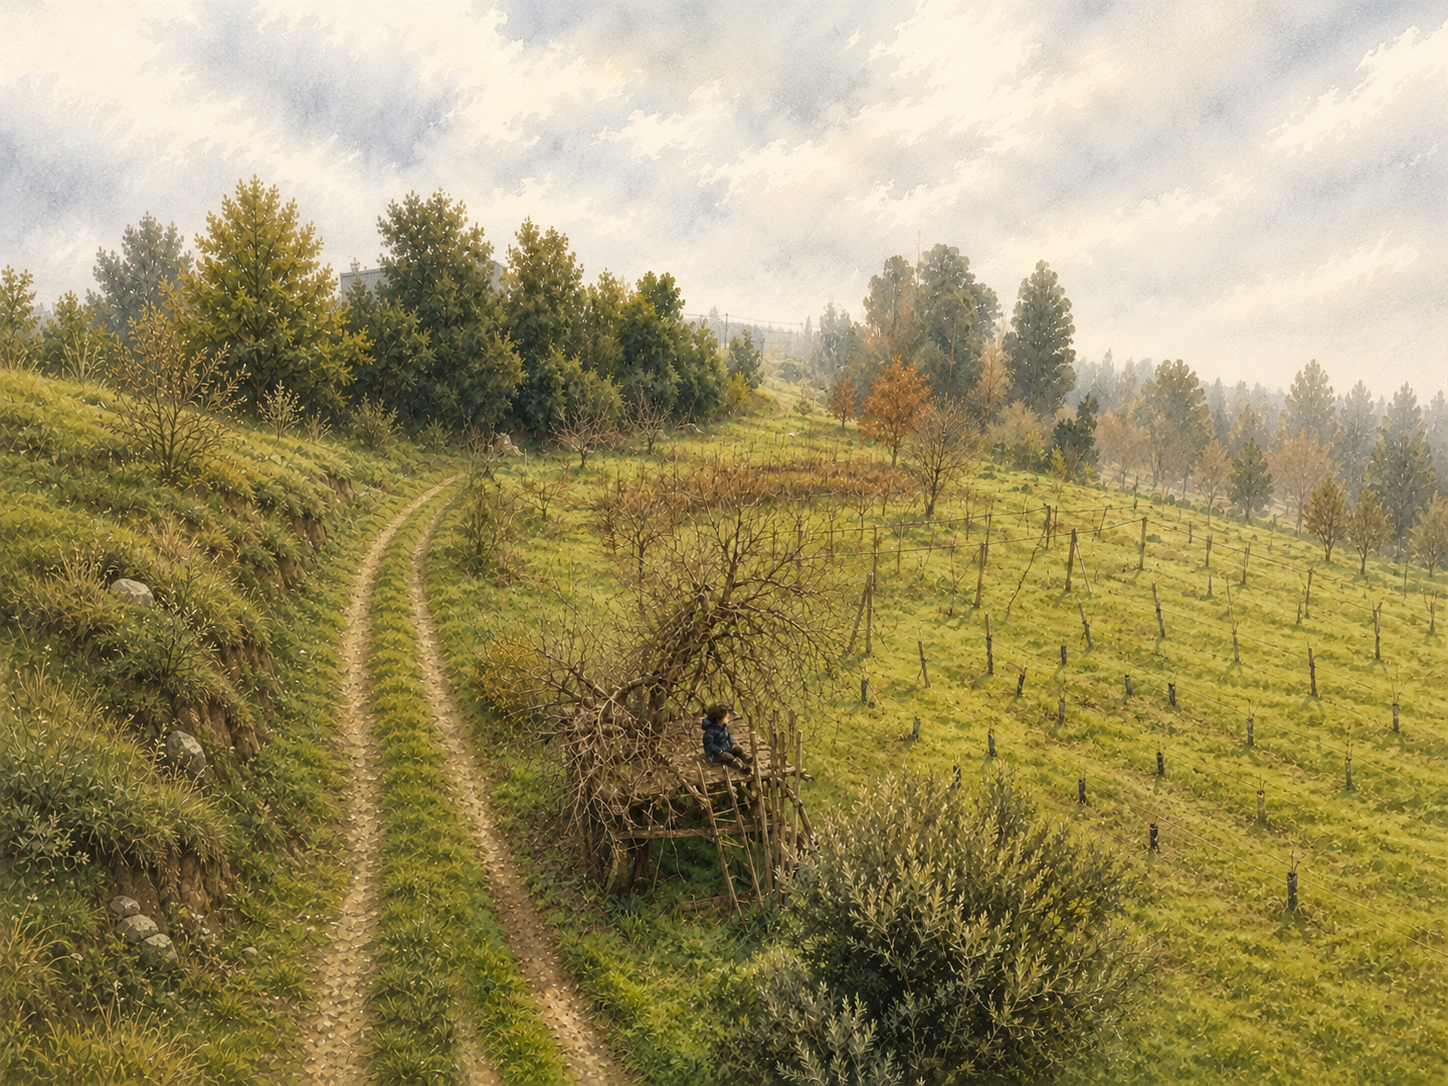
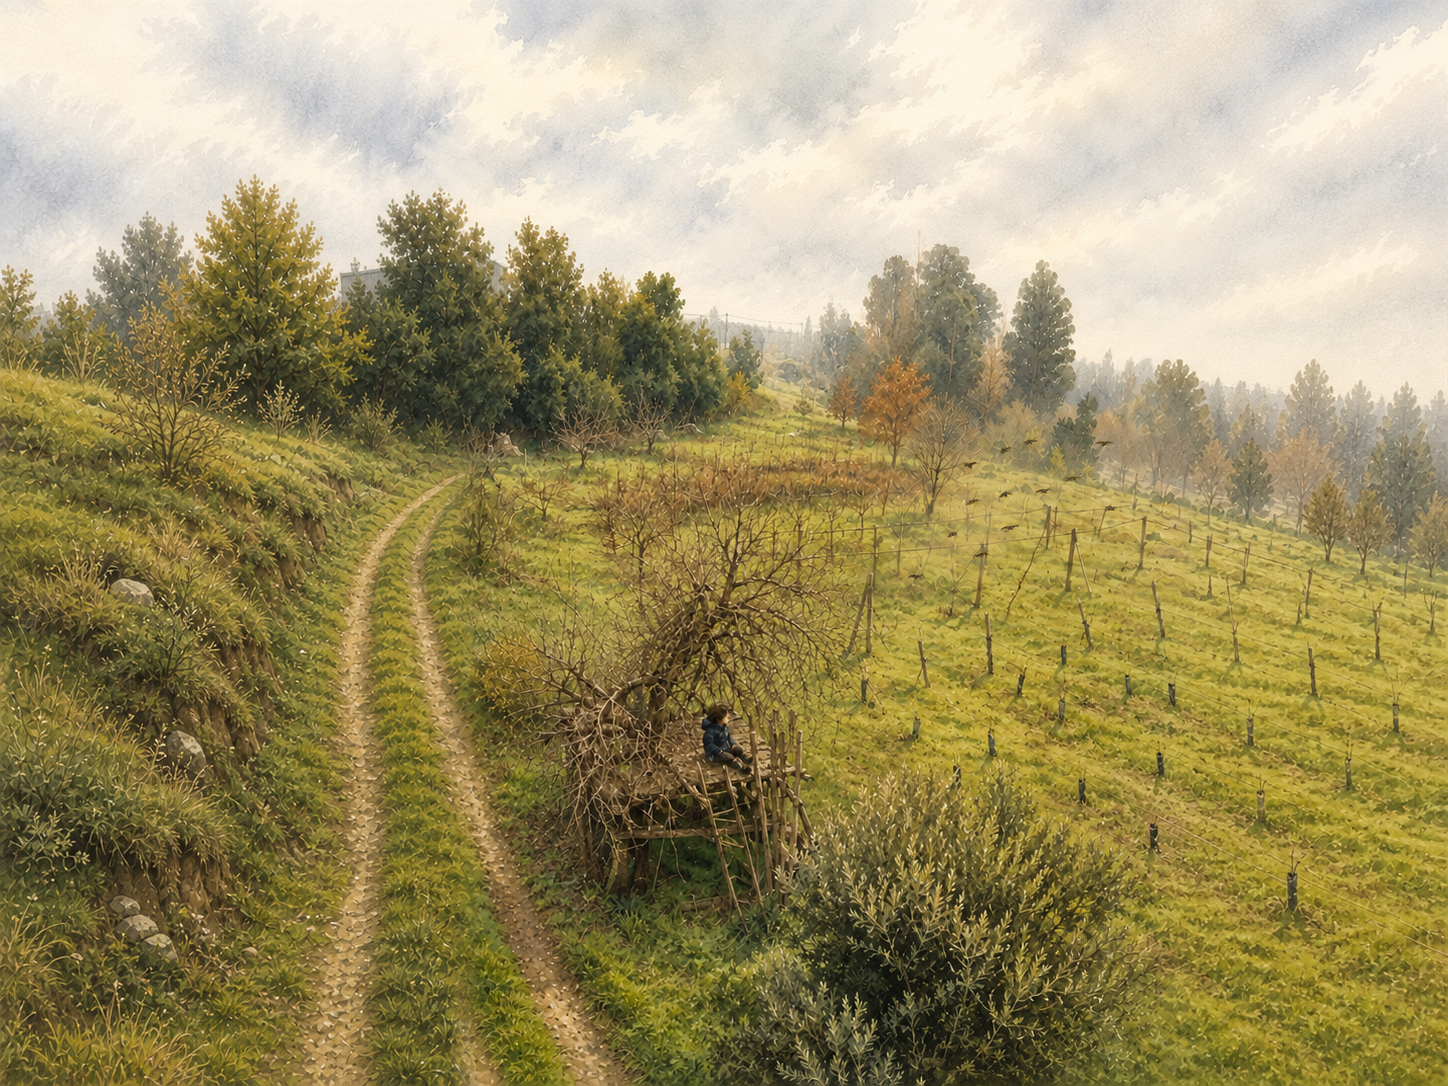
El Recodo: segunda tanda de animalitos, y dos correcciones
Nuevos:
  el tractor        -> tres queltehues, uno con las alas extendidas
  casa del arbol    -> una bandada de pajaritos bajando hacia el damasco
  el rio            -> un pececito saltando, junto al sapito que ya estaba
  leña y estufa     -> dos ratoncitos entre la leña, encendidos por el fuego
  casa de cojines   -> un ratoncito erguido al borde de la alfombra

Correcciones de la primera tanda:
  bienvenida        -> la lagartija pasa al lado de Mastana y mira el abrazo;
                       antes miraba hacia afuera de la escena
  caminando al campo-> las codornices al 70%: es una vista lejana y el ave
                       le llegaba a media altura a un adulto

Todas editadas de forma local: fuera de la zona del animal la lamina queda
identica a la version anterior. El texto no cambia, solo los alt.

Changed region(s): [[0.6215, 0.3646, 0.808, 0.547]]

diff --git a/kuchulu/index.html b/kuchulu/index.html
@@ -308,7 +308,7 @@
 <div class="page spread">
   <div class="spread-inner">
     <div class="spread-img-wrap">
-      <img class="spread-img" src="ilustraciones/15_bienvenida_terraza.png" alt="Masbaba y Mastana reciben a Kuchulu en la terraza, lo abrazan; una lagartija toma sol en el entablado" loading="eager">
+      <img class="spread-img" src="ilustraciones/15_bienvenida_terraza.png" alt="Masbaba y Mastana reciben a Kuchulu en la terraza, lo abrazan; al lado de Mastana una lagartija mira la bienvenida" loading="eager">
     </div>
     <div class="spread-text-box">
       <div class="spread-text">
@@ -363,7 +363,7 @@
 <div class="page spread">
   <div class="spread-inner">
     <div class="spread-img-wrap">
-      <img class="spread-img" src="ilustraciones/01_porton.png" alt="Masbaba y Kuchulu salen en el tractor; Masbaba senala a lo lejos" loading="eager">
+      <img class="spread-img" src="ilustraciones/01_porton.png" alt="Masbaba y Kuchulu salen en el tractor; Masbaba senala a lo lejos y tres queltehues se levantan del pasto" loading="eager">
     </div>
     <div class="spread-text-box">
       <div class="spread-text">
@@ -463,7 +463,7 @@
 <div class="page spread">
   <div class="spread-inner">
     <div class="spread-img-wrap">
-      <img class="spread-img" src="ilustraciones/05_casa_arbol.png" alt="Kuchulu solo en la casa del arbol, vista en picado de la parcela de El Recodo" loading="eager">
+      <img class="spread-img" src="ilustraciones/05_casa_arbol.png" alt="Kuchulu solo en la casa del arbol, vista en picado de la parcela de El Recodo; una bandada de pajaritos baja hacia el damasco" loading="eager">
     </div>
     <div class="spread-text-box">
       <div class="spread-text">
@@ -483,7 +483,7 @@
 <div class="page spread">
   <div class="spread-inner">
     <div class="spread-img-wrap">
-      <img class="spread-img" src="ilustraciones/06_rio.png" alt="Kuchulu de espaldas mirando el rio, el sauce dorado encendido por el sol y un sapito en las piedras" loading="eager">
+      <img class="spread-img" src="ilustraciones/06_rio.png" alt="Kuchulu de espaldas mirando el rio, el sauce dorado encendido por el sol, un sapito en las piedras y un pececito que salta" loading="eager">
     </div>
     <div class="spread-text-box">
       <div class="spread-text">
@@ -544,7 +544,7 @@
 <div class="page spread">
   <div class="spread-inner">
     <div class="spread-img-wrap">
-      <img class="spread-img" src="ilustraciones/19_lena_estufa.png" alt="Masbaba enciende la estufa a leña; la lena apilada al lado" loading="eager">
+      <img class="spread-img" src="ilustraciones/19_lena_estufa.png" alt="Masbaba enciende la estufa a leña; entre la lena apilada asoman dos ratoncitos" loading="eager">
     </div>
     <div class="spread-text-box">
       <div class="spread-text">
@@ -581,7 +581,7 @@
 <div class="page spread">
   <div class="spread-inner">
     <div class="spread-img-wrap">
-      <img class="spread-img" src="ilustraciones/13_casa_cojines.png" alt="Kuchulu en su casa de cojines y colchas; Mastana juega con el, de noche" loading="eager">
+      <img class="spread-img" src="ilustraciones/13_casa_cojines.png" alt="Kuchulu en su casa de cojines y colchas; Mastana juega con el, de noche, y un ratoncito mira desde la alfombra" loading="eager">
     </div>
     <div class="spread-text-box">
       <div class="spread-text">
